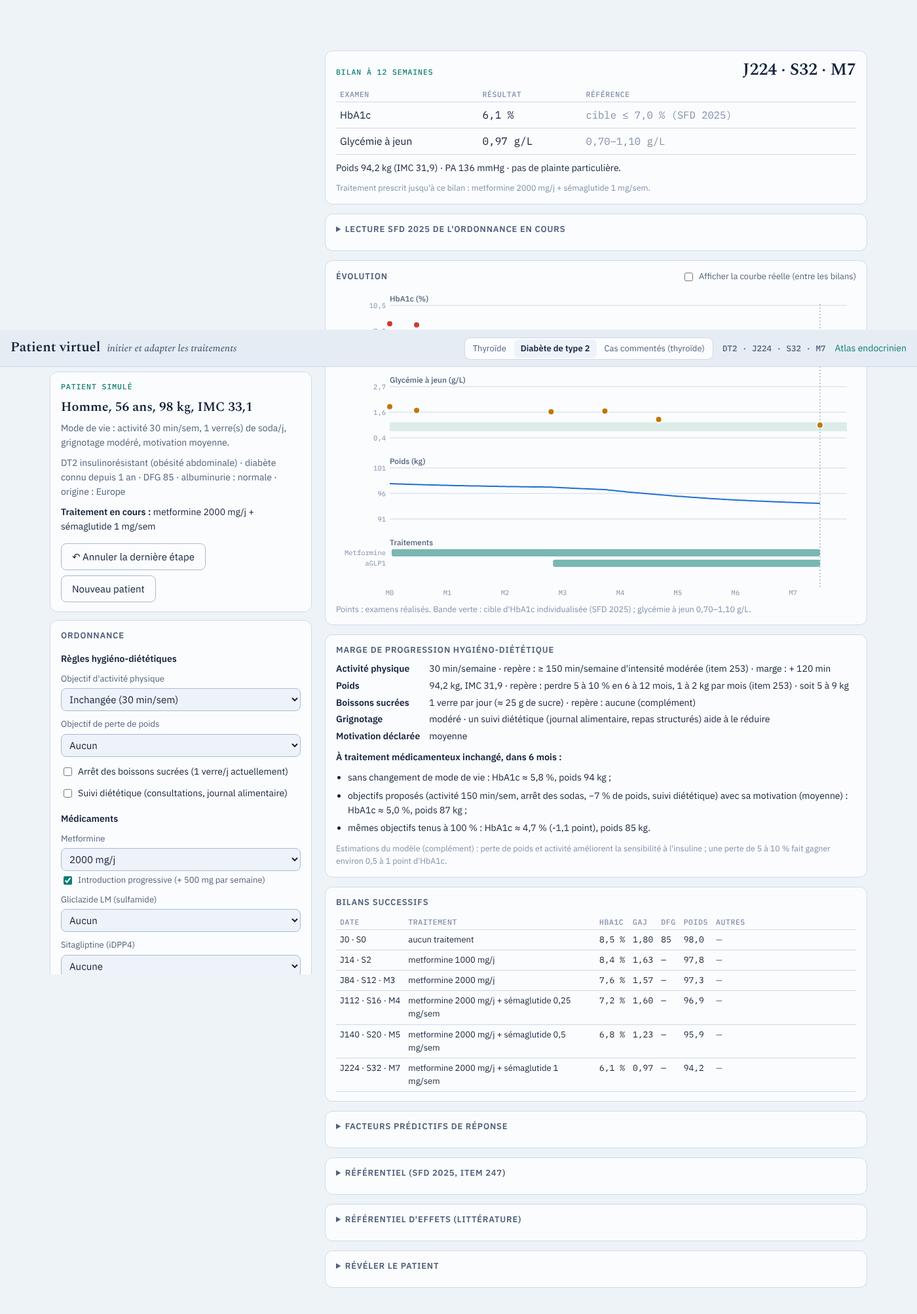
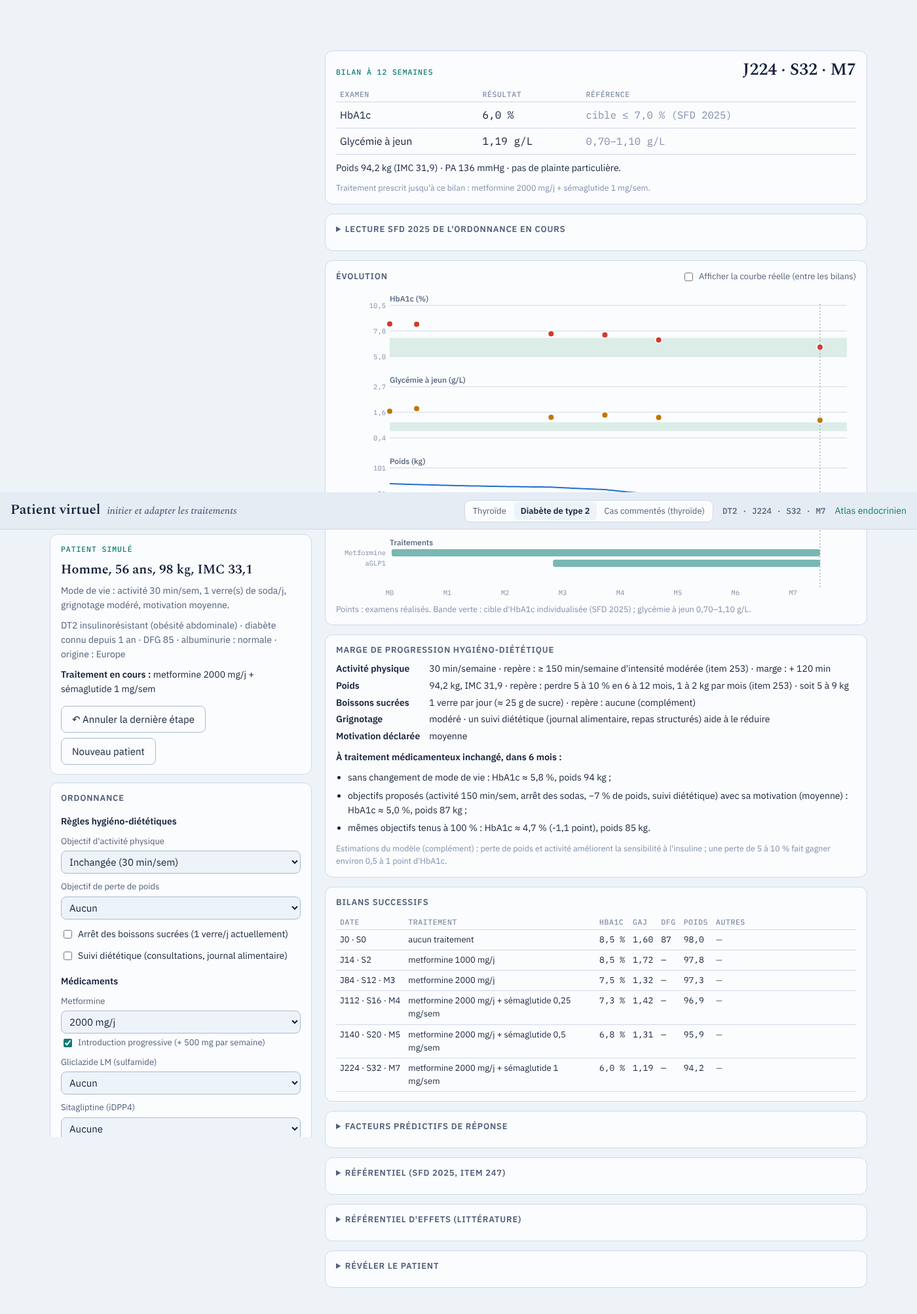
Patient virtuel DT2 : conditions de prescription du capteur et des bandelettes, objectifs réglables
- Capteur de glucose refusé sans insuline, ou sous insuline non intensifiée
  avec HbA1c < 8 % (extension LPPR 2023) ; autosurveillance capillaire
  refusée sans traitement hypoglycémiant, limitée à 200 bandelettes/an
  (≈ 4 mesures/semaine) hors insuline ; titration impossible sans mesures.
- Objectif d'HbA1c fixé avec le patient (signalé s'il s'écarte de la cible
  SFD) ; objectifs glycémiques de la titration modifiables (réveil, avant
  repas, coucher, post-prandial), bolus adaptés sur la glycémie avant le
  repas suivant ou 2 h après le repas.
- Repères HAS 2024 dans le référentiel et la lecture de l'ordonnance.

Claude-Session: https://claude.ai/code/session_01PJCSsbTDwSE6UrQpkjexK4

diff --git a/js/simu/dt2.js b/js/simu/dt2.js
@@ -182,11 +182,12 @@
       cfg: c, pt, history: [], visits: [], undo: [], truth: false, lastHypo: 0, lastSev: 0,
       seed: Math.floor(Math.random() * 1e9), glyDays: [], titrState: { above: {} }, titrLog: [], starts: {},
       titr: { who: onIns ? 'patient' : 'none', prof: c.age >= 75 && c.geria !== 'bonne' ? (c.geria === 'dependant' ? 'dep' : 'fra') : 'std', delai: 3, sfd10: false },
-      cgm: false, asg: onIns ? 2 : r0.su > 0 ? 1 : 0,
+      cgm: false, asg: onIns ? '2' : r0.su > 0 ? 'w4' : '0', goal: null,
       ev: { metGI: null, glpGI: null, myco: null, sglt2Start: null, keto: false, panc: false, retinoDone: false, lactic: false, ketosis: -999, hyperosm: false, a1cHist: [], lastGlpChange: -999, sevSeen: 0, notes: [], ppr: null },
       draft: Object.assign({}, r0, { metProg: true, wait: 12, unit: 'sem', tests: new Set(['a1c', 'fpg']), ppr: false })
     };
-    G.draft.titr = Object.assign({}, G.titr); G.draft.cgm = G.cgm; G.draft.asg = G.asg;
+    G.titr.obj = JSON.parse(JSON.stringify(Y.PROTO[G.titr.prof])); G.titr.bolusCtl = 'next';
+    G.draft.titr = JSON.parse(JSON.stringify(G.titr)); G.draft.cgm = G.cgm; G.draft.asg = G.asg; G.draft.goal = null;
     // Quatorze jours de glycémies avant la première consultation (carnet, capteur).
     for (let k = 14; k > 0; k--) { pt.day = -k; recordDay(); }
     pt.day = 0;
@@ -258,7 +259,7 @@
   function carnetRows() {
     const days = G.glyDays.slice(-14), asg = G.asg;
     return days.map((dp) => {
-      const set = asg ? Y.ASG[asg].set(dp.d) : [];
+      const set = asg !== '0' ? Y.ASG[asg].set(dp.d) : G.cgm ? ['rev', 'avDej', 'avDin', 'coucher'] : [];
       const v = {};
       set.forEach((k) => { v[k] = dp.rdg[k]; });
       const rem = dp.rdg.hypos.map((hy) => 'malaise à ' + Math.floor(hy.t) + ' h ' + String(Math.round((hy.t % 1) * 60)).padStart(2, '0') + ' : ' + fmt(hy.g, 2) + ' g/L' + (hy.sev ? ' (tierce personne)' : ', resucrage'));
@@ -386,7 +387,7 @@
       if (k === 'a1c') labs.a1c = m.a1c;
       else if (k === 'fpg') labs.fpg = G.glyDays.length ? G.glyDays[G.glyDays.length - 1].rdg.rev : m.fpg;
       else if (k === 'creat') labs.dfg = m.dfg;
-      else if (k === 'carnet') { if (G.asg) carnet = carnetRows(); else q.push(['Carnet glycémique', 'pas d\'autosurveillance glycémique prescrite']); }
+      else if (k === 'carnet') { if (G.asg !== '0' || G.cgm) carnet = carnetRows(); else q.push(['Carnet glycémique', 'pas d\'autosurveillance glycémique prescrite']); }
       else if (k === 'agp') {
         if (G.cgm && G.glyDays.length) { const days = G.glyDays.slice(-14); agp = { st: Y.agpStats(Y.cgm(days), days.length), days }; }
         else q.push(['Rapport AGP', 'pas de capteur de glucose prescrit']);
@@ -406,7 +407,7 @@
     const sy = symptoms(m);
     const nHypo = pt.st.hypo - G.lastHypo;
     let toon = G.ev.eventToon || G.ev.toonNext || (nHypo >= 3 ? 'hypo' : null);
-    const T = SFD.target(G.cfg, pt.rx, pt.st.dfg);
+    const T = goalT();
     const target = T.max;
     if (!toon && labs.a1c != null && labs.a1c < target && nHypo === 0 && !G.ev.trophy && G.history.length && G.history[0].labs.a1c >= target) { toon = 'trophy'; G.ev.trophy = true; }
     G.history.push({ day: pt.day, labs, q, w: m.w, bmi: m.bmi, sbp: Math.round(m.sbp), symptoms: sy, rx: rxLabel(pt.rx), note, event: event || null, toon, caption: G.ev.caption || toon, banner: G.ev.banner || null, epitaphe: G.ev.epitaphe || null, carnet, agp, titr, T, a1cTrue: pt.st.A, ukg: pt.rx.basal / pt.st.W });
@@ -445,14 +446,20 @@
   function snapshot() {
     const pt = G.pt;
     return JSON.stringify({ metRamp: pt.metRamp, st: pt.st, day: pt.day, rx: pt.rx, take: pt.take, par: Object.assign({}, pt.par), logLen: pt.log.length, hist: G.history.length, vis: G.visits.length, ev: G.ev, lastHypo: G.lastHypo,
-      gly: G.glyDays, titrState: G.titrState, titrLog: G.titrLog.length, starts: G.starts, titr: G.titr, cgm: G.cgm, asg: G.asg, lastH: G.lastH, lastS: G.lastS });
+      gly: G.glyDays, titrState: G.titrState, titrLog: G.titrLog.length, starts: G.starts, titr: G.titr, cgm: G.cgm, asg: G.asg, goal: G.goal, lastH: G.lastH, lastS: G.lastS });
   }
   function restore(js) {
     const s = JSON.parse(js), pt = G.pt;
     pt.st = s.st; pt.day = s.day; pt.rx = s.rx; pt.take = s.take; pt.metRamp = s.metRamp; Object.assign(pt.par, s.par);
     pt.log.length = s.logLen; G.history.length = s.hist; G.visits.length = s.vis; G.ev = s.ev; G.lastHypo = s.lastHypo;
-    G.glyDays = s.gly; G.titrState = s.titrState; G.titrLog.length = s.titrLog; G.starts = s.starts; G.titr = s.titr; G.cgm = s.cgm; G.asg = s.asg; G.lastH = s.lastH; G.lastS = s.lastS;
-    Object.assign(G.draft, pt.rx, { rapidM: pt.rx.rapidM.slice(), titr: Object.assign({}, G.titr), cgm: G.cgm, asg: G.asg });
+    G.glyDays = s.gly; G.titrState = s.titrState; G.titrLog.length = s.titrLog; G.starts = s.starts; G.titr = s.titr; G.cgm = s.cgm; G.asg = s.asg; G.goal = s.goal; G.lastH = s.lastH; G.lastS = s.lastS;
+    Object.assign(G.draft, pt.rx, { rapidM: pt.rx.rapidM.slice(), titr: JSON.parse(JSON.stringify(G.titr)), cgm: G.cgm, asg: G.asg, goal: G.goal });
+  }
+
+  // Cible d'HbA1c : celle fixée par le prescripteur, sinon la cible SFD 2025 calculée.
+  function goalT() {
+    const T = SFD.target(G.cfg, G.pt.rx, G.pt.st.dfg);
+    return G.goal != null ? Object.assign({}, T, { max: G.goal, chosen: true }) : T;
   }
 
   function lastA1c() { const v = [...G.visits].reverse().find((x) => x.labs.a1c != null); return v ? v.labs.a1c : G.pt.st.A; }
@@ -466,13 +473,16 @@
     if (!d.tests.size) { say('Cochez au moins un examen.'); return; }
     d.rapid = d.rapidM.reduce((a, x) => a + x, 0);
     // Initiation de l'insuline : règle de bonne pratique, refus si non respectée (SFD 2025, avis 18).
-    const block = SFD.insulinInit(pt.rx, d, pt.st.W);
+    const block = SFD.insulinInit(pt.rx, d, pt.st.W).concat(SFD.monitoring(d, d.asg, d.cgm, lastA1c()));
+    const onInsD = d.basal + d.rapid > 0;
+    if (onInsD && d.titr.who !== 'none' && d.asg === '0' && !d.cgm) block.push('Titration de l\'insuline sans autosurveillance ni capteur : impossible ; il faut au moins la glycémie du réveil chaque jour.');
+    if (onInsD && d.titr.who !== 'none' && d.rapid > 0 && d.titr.bolusCtl === 'pp' && d.asg !== '6' && !d.cgm) block.push('Bolus adaptés sur la glycémie post-prandiale : prescrire l\'autosurveillance 6 fois par jour (avant et 2 h après les repas) ou un capteur.');
     if (block.length) { say(block); return; }
     G.undo.push(snapshot());
     const prev = Object.assign({}, pt.rx, { rapidM: pt.rx.rapidM.slice() });
     const metBefore = D.metDose(pt);
     Object.assign(pt.rx, { met: d.met, su: d.su, dpp4: d.dpp4, glp: d.glp, glpDose: d.glp === 'none' ? 0 : d.glpDose, sglt2: d.sglt2, acarb: d.acarb, basal: d.basal, basalType: d.basalType, rapidM: d.rapidM.slice(), rapid: d.rapid, act: d.act, sodaStop: d.sodaStop, wtGoal: d.wtGoal, diet: d.diet });
-    G.titr = Object.assign({}, d.titr); G.cgm = d.cgm; G.asg = d.asg;
+    G.titr = JSON.parse(JSON.stringify(d.titr)); G.cgm = d.cgm; G.asg = d.asg; G.goal = d.goal;
     if (d.ppr && G.ev.ppr == null) G.ev.ppr = pt.day;
     // Début des traitements, pour les règles d'arrêt (SFD 2025, avis 5).
     const on = { su: (r) => r.su > 0, dpp4: (r) => r.dpp4 > 0, sglt2: (r) => r.sglt2 !== 'none', glp: (r) => r.glp !== 'none' };
@@ -567,6 +577,8 @@
         sel('dtAcarb', 'Acarbose', d.acarb, ACARB.map((x) => [x, x ? x + ' mg/j' : 'Aucune']), (v) => { d.acarb = +v; }),
       ]),
       insulinBlock(d, re),
+      h('h4', null, 'Objectif d\'HbA1c'),
+      (() => { const T = SFD.target(G.cfg, G.pt.rx, G.pt.st.dfg); return h('div', { class: 'sv-form' }, [h('div', { class: 'sv-field' }, [h('label', { for: 'dtGoal' }, 'Fixé avec le patient'), h('select', { id: 'dtGoal', onchange: (e) => { d.goal = e.target.value === '' ? null : +e.target.value; } }, [['', 'Cible SFD 2025 calculée (≤ ' + fmt(T.max, 1) + ' %)']].concat([6.5, 7, 7.5, 8, 8.5, 9].map((x) => [x, '≤ ' + fmt(x, 1) + ' %'])).map(([k, v]) => h('option', { value: k, selected: String(d.goal == null ? '' : d.goal) === String(k) }, v)))])]); })(),
       h('h3', null, 'Prochain bilan'),
       h('div', { class: 'sv-inline' }, ['dans',
         h('input', { type: 'number', id: 'dtWait', class: 'sv-num', value: d.wait, min: 1, max: d.unit === 'sem' ? 156 : 1095, step: 1, inputmode: 'numeric', 'aria-label': 'Délai', oninput: (e) => { d.wait = parseFloat(e.target.value) || 0; } }),
@@ -589,7 +601,13 @@
     upd();
     const lo = Math.max(6, Math.round(0.1 * W)), hi = Math.max(10, Math.round(0.2 * W));
     const t = d.titr;
-    const O = Y.PROTO[t.prof];
+    const O = Y.objOf(t);
+    // Objectif glycémique modifiable (min–max, g/L), comme dans le protocole d'adaptation des doses.
+    const rng = (k, label) => {
+      const o = O[k] || (O[k] = [1.2, 1.8]);
+      const inp = (i) => h('input', { type: 'number', id: 'dtObj' + k + i, class: 'sv-num sv-num-s', value: o[i], min: 0.5, max: 3, step: 0.05, inputmode: 'decimal', 'aria-label': label + (i ? ' maximum' : ' minimum'), oninput: (e) => { const v = parseFloat(String(e.target.value).replace(',', '.')); if (v > 0) { o[i] = v; if (k === 'avDej') O.avDin[i] = v; } } });
+      return h('div', { class: 'sv-field' }, [h('label', null, label + ' (g/L)'), h('div', { class: 'sv-inline' }, [inp(0), '–', inp(1)])]);
+    };
     const retNeed = (G.cfg.retino === 'severe' || G.cfg.retino === 'prolif') && G.ev.ppr == null;
     return h('div', { class: 'sv-ins' }, [
       h('h4', null, 'Insulinothérapie'),
@@ -603,15 +621,18 @@
       h('h4', null, 'Adaptation des doses entre les consultations'),
       h('div', { class: 'sv-form' }, [
         sel('dtTitrWho', 'Qui adapte ?', t.who, [['none', 'Personne (doses fixes)'], ['patient', 'Le patient (protocole écrit, éducation)'], ['ide', 'Un(e) IDE à domicile']], (v) => { t.who = v; }),
-        sel('dtTitrProf', 'Objectifs du protocole', t.prof, Object.entries(Y.PROTO).map(([k, v]) => [k, v.label + ' (réveil ' + fmt(v.rev[0], 2) + '–' + fmt(v.rev[1], 2) + ')']), (v) => { t.prof = v; re(); }),
-        sel('dtTitrDel', 'Augmenter après', t.delai, [[2, '2 jours de suite au-dessus de l\'objectif'], [3, '3 jours de suite (SFD : tous les 3 jours)']], (v) => { t.delai = +v; })
+        sel('dtTitrProf', 'Type de patient (remplit les objectifs)', t.prof, Object.entries(Y.PROTO).map(([k, v]) => [k, v.label]), (v) => { t.prof = v; t.obj = JSON.parse(JSON.stringify(Y.PROTO[v])); if (!t.obj.pp) t.obj.pp = [1.4, 2.2]; re(); }),
+        sel('dtTitrDel', 'Augmenter après', t.delai, [[2, '2 jours de suite au-dessus de l\'objectif'], [3, '3 jours de suite (SFD : tous les 3 jours)']], (v) => { t.delai = +v; }),
+        sel('dtBolusCtl', 'Adapter les bolus sur', t.bolusCtl, [['next', 'la glycémie avant le repas suivant'], ['pp', 'la glycémie 2 h après le repas']], (v) => { t.bolusCtl = v; })
       ]),
+      h('div', { class: 'sv-form' }, [rng('rev', 'Objectif au réveil'), rng('avDej', 'Avant les repas'), rng('coucher', 'Au coucher'), rng('pp', '2 h après les repas')]),
       h('label', { class: 'sv-check sv-small' }, [h('input', { type: 'checkbox', id: 'dtTitr10', checked: t.sfd10, onchange: (e) => { t.sfd10 = e.target.checked; } }), ' Au-delà de 40 U, pas de 10 % (SFD 2025) au lieu de 2 U']),
       h('p', { class: 'sv-note' }, 'Protocole du service : pas de 1 U sous 10 U, de 2 U au-delà ; baisse dès l\'injection suivante si hypoglycémie ou glycémie < ' + fmt(O.rev[0], 2) + ' g/L ; basale jugée sur le réveil, bolus sur la glycémie avant le repas suivant.'),
       h('h4', null, 'Surveillance glycémique'),
       h('div', { class: 'sv-form' }, [
-        sel('dtAsg', 'Autosurveillance capillaire', d.asg, [[0, 'Aucune']].concat(Object.entries(Y.ASG).map(([k, v]) => [k, v.label])), (v) => { d.asg = +v; })
+        sel('dtAsg', 'Autosurveillance capillaire', d.asg, [['0', 'Aucune']].concat(Object.entries(Y.ASG).map(([k, v]) => [k, v.label])), (v) => { d.asg = v; })
       ]),
+      h('p', { class: 'sv-note' }, 'Lecteur et bandelettes : seulement sous traitement hypoglycémiant ; hors insuline, 200 bandelettes par an (HAS). Capteur : sous insuline intensifiée (≥ 3 injections/j), ou non intensifiée avec HbA1c ≥ 8 % (LPPR 2023).'),
       h('label', { class: 'sv-check' }, [h('input', { type: 'checkbox', id: 'dtCgm', checked: d.cgm, onchange: (e) => { d.cgm = e.target.checked; } }), ' Capteur de glucose (mesure en continu, rapport AGP)']),
       retNeed ? h('label', { class: 'sv-check' }, [h('input', { type: 'checkbox', id: 'dtPpr', checked: d.ppr, onchange: (e) => { d.ppr = e.target.checked; } }), ' Adresser en urgence en ophtalmologie : photocoagulation panrétinienne']) : null
     ]);
@@ -660,7 +681,7 @@
     const e = [...G.history].reverse().find((x) => !x.prescription);
     const rows = [];
     const T = e.T;
-    if (e.labs.a1c != null) rows.push(['HbA1c', fmt(e.labs.a1c, 1) + ' %', 'cible ≤ ' + fmt(T.max, 1) + ' %' + (T.floor ? ', > ' + fmt(T.floor, 1) + ' %' : '') + ' (SFD 2025)', e.labs.a1c > T.max || (T.floor && e.labs.a1c < T.floor)]);
+    if (e.labs.a1c != null) rows.push(['HbA1c', fmt(e.labs.a1c, 1) + ' %', (T.chosen ? 'objectif fixé ≤ ' : 'cible ≤ ') + fmt(T.max, 1) + ' %' + (T.floor ? ', > ' + fmt(T.floor, 1) + ' %' : '') + (T.chosen ? '' : ' (SFD 2025)'), e.labs.a1c > T.max || (T.floor && e.labs.a1c < T.floor)]);
     if (e.labs.fpg != null) rows.push(['Glycémie à jeun', g2(e.labs.fpg), '0,70–1,10 g/L', e.labs.fpg > 1.26 || e.labs.fpg < 0.7]);
     if (e.labs.dfg != null) rows.push(['DFG (CKD-EPI)', fmt(e.labs.dfg, 0) + ' mL/min/1,73 m²', '> 60', e.labs.dfg < 60]);
     return h('div', { class: 'sv-card sv-latest' }, [
@@ -681,11 +702,11 @@
   // Carnet glycémique et sa lecture guidée (protocole du service, SFD 2025).
   function carnetBlock(e) {
     const prot = G.titr;
-    const O = Y.PROTO[prot.prof];
+    const O = Y.objOf(prot);
     const read = Y.interpretCarnet(e.carnet, prot, { basal: G.pt.rx.basal, basalUkg: e.ukg, a1c: e.labs.a1c });
     return h('div', { class: 'sv-gly' }, [
       h('h4', null, 'Carnet glycémique · ' + e.carnet.length + ' derniers jours'),
-      h('p', { class: 'sv-note' }, 'Autosurveillance : ' + Y.ASG[G.asg].label + '. Couleurs selon les objectifs « ' + O.label.toLowerCase() + ' » du protocole : réveil et avant les repas ' + fmt(O.rev[0], 2) + '–' + fmt(O.rev[1], 2) + ' g/L, coucher ' + fmt(O.coucher[0], 2) + '–' + fmt(O.coucher[1], 2) + ' g/L ; rouge : < 0,70 g/L.'),
+      h('p', { class: 'sv-note' }, (G.asg !== '0' ? 'Autosurveillance : ' + Y.ASG[G.asg].label : 'Valeurs relevées sur le capteur') + '. Couleurs selon les objectifs fixés : réveil ' + fmt(O.rev[0], 2) + '–' + fmt(O.rev[1], 2) + ', avant les repas ' + fmt(O.avDej[0], 2) + '–' + fmt(O.avDej[1], 2) + ', coucher ' + fmt(O.coucher[0], 2) + '–' + fmt(O.coucher[1], 2) + (O.pp ? ', 2 h après les repas ' + fmt(O.pp[0], 2) + '–' + fmt(O.pp[1], 2) : '') + ' g/L ; rouge : < 0,70 g/L.'),
       Y.carnetTable(e.carnet, prot, h),
       h('details', { class: 'sv-det sv-how' }, [h('summary', null, 'Comment lire un carnet'), h('ol', { class: 'sv-keys' }, [
         h('li', null, 'Les hypoglycémies d\'abord : à quelle heure, après quelle dose ? Hypoglycémie nocturne ou réveil sous l\'objectif : baisser la basale ; avant le repas suivant ou 2 à 4 h après un repas : baisser le bolus de ce repas (dès l\'injection suivante).'),
@@ -721,14 +742,14 @@
   function sfdCard() {
     const pt = G.pt, e = [...G.history].reverse().find((x) => !x.prescription);
     const nSev = pt.st.hypoSev;
-    const A = SFD.advise({ c: G.cfg, rx: pt.rx, dfg: pt.st.dfg, a1c: e.labs.a1c != null ? e.labs.a1c : lastA1c(), W: pt.st.W, hypos: pt.st.hypo, sevHypo: nSev > 0, starts: G.starts, day: pt.day, ppr: G.ev.ppr != null, cgm: G.cgm, titr: G.titr, fpg: G.glyDays.length ? Y.ASG[1].set(0) && G.glyDays.slice(-7).reduce((x, dp) => x + dp.rdg.rev, 0) / Math.min(7, G.glyDays.length) : null });
+    const A = SFD.advise({ c: G.cfg, rx: pt.rx, dfg: pt.st.dfg, a1c: e.labs.a1c != null ? e.labs.a1c : lastA1c(), W: pt.st.W, hypos: pt.st.hypo, sevHypo: nSev > 0, starts: G.starts, day: pt.day, ppr: G.ev.ppr != null, cgm: G.cgm, titr: G.titr, goal: G.goal, asg: G.asg, fpg: G.glyDays.length ? G.glyDays.slice(-7).reduce((x, dp) => x + dp.rdg.rev, 0) / Math.min(7, G.glyDays.length) : null });
     const n = A.items.filter((x) => x.lvl === 'stop' || x.lvl === 'warn').length;
     const icon = { stop: '⛔', warn: '⚠', tip: '→', ok: '✓' };
     return h('details', { class: 'sv-card sv-det sv-sfd' }, [
       h('summary', null, 'Lecture SFD 2025 de l\'ordonnance en cours' + (n ? ' · ' + n + ' point' + (n > 1 ? 's' : '') + ' à revoir' : '')),
       h('p', { class: 'sv-q' }, 'Cible d\'HbA1c : ≤ ' + fmt(A.target.max, 1) + ' %' + (A.target.floor ? ', en restant au-dessus de ' + fmt(A.target.floor, 1) + ' %' : '') + (A.target.low ? ' (voire ≤ 6,5 %)' : '') + '.'),
       h('p', { class: 'sv-note' }, A.target.why.join(' ; ') + ' (' + A.target.src + ').'),
-      h('ul', { class: 'sv-sfd-l' }, A.items.map((x) => h('li', { class: 'sv-sfd-' + x.lvl }, [h('span', { class: 'sv-sfd-i', 'aria-hidden': 'true' }, icon[x.lvl]), ' ' + x.t + ' ', x.src ? h('span', { class: 'sv-src' }, '(SFD 2025, ' + x.src + ')') : null]))),
+      h('ul', { class: 'sv-sfd-l' }, A.items.map((x) => h('li', { class: 'sv-sfd-' + x.lvl }, [h('span', { class: 'sv-sfd-i', 'aria-hidden': 'true' }, icon[x.lvl]), ' ' + x.t + ' ', x.src ? h('span', { class: 'sv-src' }, '(' + (x.src.startsWith('HAS') ? '' : 'SFD 2025, ') + x.src + ')') : null]))),
       h('p', { class: 'sv-note' }, 'Darmon P et al. Prise de position de la SFD sur les stratégies d\'utilisation des traitements de l\'hyperglycémie dans le DT2 – 2025. Med Mal Metab 2025;19:630-662. Ouvrez cette lecture après avoir décidé : elle ne bloque rien, sauf l\'initiation de l\'insuline hors recommandations.')
     ]);
   }
@@ -751,7 +772,7 @@
     const x = (d) => L + ((W - L - R) * d) / last;
     const drugs = [['met', 'Metformine', (p) => p.met > 0], ['su', 'Sulfamide', (p) => p.su > 0], ['glp', 'aGLP1', (p) => p.glp > 0], ['ins', 'Insuline', (p) => p.ins > 0]].filter(([, , f]) => log.some(f));
     const lanes = [
-      { k: 'a1c', t: 'HbA1c (%)', min: 5, max: Math.max(10, ...log.map((p) => p.a1c)) + 0.5, band: [SFD.target(G.cfg, pt.rx, pt.st.dfg).floor || 4, SFD.target(G.cfg, pt.rx, pt.st.dfg).max], color: 'var(--t3)', truth: (p) => p.a1c },
+      { k: 'a1c', t: 'HbA1c (%)', min: 5, max: Math.max(10, ...log.map((p) => p.a1c)) + 0.5, band: [goalT().floor || 4, goalT().max], color: 'var(--t3)', truth: (p) => p.a1c },
       { k: 'fpg', t: 'Glycémie à jeun (g/L)', min: 0.4, max: Math.max(2.5, ...log.map((p) => p.mg)) + 0.2, band: [0.7, 1.1], color: 'var(--t4)', truth: (p) => p.fpg },
       { k: 'w', t: 'Poids (kg)', min: Math.min(...log.map((p) => p.w)) - 3, max: Math.max(...log.map((p) => p.w)) + 3, color: 'var(--tsh)', truth: (p) => p.w, all: true }
     ];

diff --git a/js/simu/sfd.js b/js/simu/sfd.js
@@ -59,6 +59,25 @@
     return out;
   }
 
+  // Dispositifs de surveillance (remboursement) : capteur et bandelettes. Renvoie les messages bloquants.
+  // Capteur (FreeStyle Libre 2, extension LPPR 2023) : insulinothérapie intensifiée (≥ 3 injections/j ou
+  // pompe), ou insulinothérapie non intensifiée avec HbA1c ≥ 8 %. Autosurveillance capillaire : réservée
+  // aux patients sous traitement hypoglycémiant (sulfamide, glinide, insuline) ; hors insuline, 200
+  // bandelettes et lancettes par an (HAS).
+  function monitoring(rx, asg, cgm, a1c) {
+    const out = [];
+    const nInj = (rx.basal > 0 ? 1 : 0) + (rx.rapidM || []).filter((x) => x > 0).length;
+    if (cgm) {
+      if (!INS(rx)) out.push('Capteur de glucose : pris en charge seulement sous insuline (HAS, LPPR). Sans insuline, il n\'est pas remboursé.');
+      else if (nInj < 3 && !(a1c >= 8)) out.push('Capteur de glucose sous insulinothérapie non intensifiée (' + nInj + ' injection' + (nInj > 1 ? 's' : '') + '/j) : remboursé seulement si l\'HbA1c est ≥ 8 % (dernière HbA1c ' + (a1c != null ? fmt(a1c, 1) + ' %' : 'inconnue') + ') ; sous insulinothérapie intensifiée (≥ 3 injections/j), sans condition d\'HbA1c.');
+    }
+    if (asg && asg !== '0') {
+      if (!INS(rx) && !(rx.su > 0)) out.push('Autosurveillance glycémique capillaire : sans traitement hypoglycémiant (sulfamide, glinide, insuline), elle n\'est pas recommandée en routine et le lecteur et les bandelettes ne sont pas pris en charge (HAS).');
+      else if (!INS(rx) && asg !== 'w4') out.push('Sans insuline (sulfamide seul), l\'autosurveillance est limitée à 200 bandelettes et lancettes par an, soit environ 4 mesures par semaine (HAS).');
+    }
+    return out;
+  }
+
   // Lecture de l'ordonnance : liste de { lvl: 'stop' | 'warn' | 'tip' | 'ok', t, src }.
   // st : { c (patient), rx, prevRx, dfg, a1c, W, hypos, starts: {drug: {day, a1c, w}}, day, ppr, glyNote }
   function advise(st) {
@@ -76,6 +95,8 @@
     if (cv && GLP(rx) && !CV_GLP(rx)) add('tip', 'Bénéfice CV démontré aux doses des grands essais : ' + ({ lira: 'liraglutide 1,8 mg/j', dula: 'dulaglutide ≥ 1,5 mg/sem', sema: 'sémaglutide 1 mg/sem', tirz: 'tirzépatide 15 mg/sem' }[rx.glp]) + '.', 'avis 11');
     if ((bmi >= 30 || c.masld) && !GLP(rx) && !(g === 'dependant')) add('tip', (bmi >= 30 ? 'Obésité (IMC ' + fmt(bmi, 1) + ')' : 'MASLD/MASH') + ' : envisager un aGLP1 ou le tirzépatide, quel que soit l\'HbA1c ; à défaut, un iSGLT2.', bmi >= 30 ? 'avis 14' : 'avis 15');
 
+    // Mode de vie en première intention chez tous (HAS 2024, SFD 2025 avis 4 et 8).
+    if (!(rx.act > 0) && !rx.diet && !(rx.wtGoal > 0) && !rx.sodaStop) add('tip', 'Mesures hygiéno-diététiques (activité physique, prise en charge nutritionnelle) en première intention chez tous les patients, avant et avec tout médicament.', 'HAS 2024 ; SFD 2025, avis 4 et 8');
     // Metformine (avis 8, 9, 12 bis, 20).
     if (!(rx.met > 0) && dfg >= 30 && !c.metIntol) add('tip', 'Metformine en première intention (sauf contre-indication ou intolérance digestive avérée), à doses progressives jusqu\'à la dose maximale tolérée, en 2 ou 3 prises au cours ou à la fin des repas.', 'avis 8 et 9');
     if (rx.met > 0 && dfg < 30) add('stop', 'Metformine contre-indiquée sous 30 mL/min/1,73 m² : à arrêter.', 'avis 12 bis');
@@ -159,6 +180,13 @@
     // Rétinopathie (avis 8 bis).
     if ((c.retino === 'severe' || c.retino === 'prolif') && !st.ppr) add('warn', 'Rétinopathie ' + (c.retino === 'prolif' ? 'proliférante' : 'sévère') + ' : avis ophtalmologique rapide (photocoagulation panrétinienne) ; objectifs gradués de baisse de la glycémie en attendant.', 'avis 8 bis');
 
+    // Objectif fixé par le prescripteur (HAS 2024, SFD 2025 : objectif individualisé, décidé avec le patient).
+    if (st.goal != null) {
+      if (st.goal < T.max - 0.25 && (rx.su > 0 || INS(rx))) add('warn', 'Objectif fixé à ' + fmt(st.goal, 1) + ' %, plus strict que la cible SFD (≤ ' + fmt(T.max, 1) + ' %) sous traitement hypoglycémiant : risque d\'hypoglycémie' + (T.floor ? ' ; ne pas descendre sous ' + fmt(T.floor, 1) + ' %' : '') + '.', 'avis 3');
+      else if (st.goal > T.max + 0.25) add('warn', 'Objectif fixé à ' + fmt(st.goal, 1) + ' %, moins exigeant que la cible SFD (≤ ' + fmt(T.max, 1) + ' %) : inertie thérapeutique ?', 'avis 3');
+      if (T.floor && st.goal < T.floor) add('warn', 'Objectif sous le plancher de ' + fmt(T.floor, 1) + ' % recommandé pour ce patient sous SU, glinide ou insuline.', 'avis 3 et 21');
+    }
+    if (!(rx.su > 0) && !INS(rx) && st.asg && st.asg !== '0') add('tip', 'Autosurveillance sans traitement hypoglycémiant : non recommandée en routine (HAS) ; la SFD l\'admet temporairement à visée éducative au diagnostic d\'un déséquilibre important.', 'avis 8 bis et 23');
     if (!out.length) add('ok', 'Pas d\'écart relevé avec la prise de position.', '');
     return { target: T, items: out };
   }
@@ -174,8 +202,10 @@
     ['Fonction rénale', 'Metformine ≤ 2 g (DFG 45–59), ≤ 1 g (30–44), arrêt < 30. Sitagliptine 50 mg < 45, 25 mg < 30. SU contre-indiqués < 30. iSGLT2 : effet glycémique réduit < 45 ; initiation dès 25 (dapagliflozine) ou 20 (empagliflozine 10 mg).', 'avis 12 bis'],
     ['Insuline basale', 'Une injection d\'un analogue lent, 6 à 10 U/j ou 0,1 à 0,2 U/kg/j ; glycémie au réveil 0,80–1,30 g/L ; adaptation tous les 3 jours de ± 2 U (± 10 % au-delà de 40 U). Garder la metformine, arrêter les SU. Capteur recommandé. Glargine U300 ou dégludec si risque d\'hypoglycémie nocturne.', 'avis 18, 18 bis, 18 ter'],
     ['Échec de la basale', 'HbA1c au-dessus de la cible malgré une glycémie à jeun dans la cible, ou basale > 0,5 U/kg : avis diabétologique ; ajouter un aGLP1 ou le tirzépatide (préféré), un oral (iSGLT2, iDPP4, SU) ou des bolus (basal-plus, basal-bolus) ; prémélanges moins flexibles.', 'avis 19'],
+    ['HAS 2024 (stratégie thérapeutique du patient vivant avec un DT2)', 'Mode de vie (activité physique, nutrition) en première intention chez tous ; metformine en première intention médicamenteuse ; iSGLT2 ou aGLP1 selon le profil, indépendamment de la metformine et de l\'HbA1c (maladie cardiovasculaire avérée : iSGLT2 ou aGLP1 ; insuffisance cardiaque ou maladie rénale : iSGLT2 ; obésité IMC > 30 : aGLP1) ; cible d\'HbA1c de 7 % pour la majorité, individualisée et décidée avec le patient.', 'HAS 2024'],
+    ['Surveillance : bandelettes et capteur', 'Autosurveillance capillaire réservée aux traitements hypoglycémiants (sulfamide, glinide, insuline) ; hors insuline, 200 bandelettes et lancettes par an. Capteur de glucose pris en charge sous insulinothérapie intensifiée (≥ 3 injections/j), ou non intensifiée avec HbA1c ≥ 8 % (LPPR, 2023) ; recommandé sous insuline par la SFD.', 'HAS ; LPPR ; avis 23'],
     ['Personne âgée', 'Fragile : metformine + iDPP4, puis analogue lent ; éviter SU et glinides. Dépendante : pas de SU, de glinide ni d\'aGLP1 ; iDPP4, insuline basale ; HbA1c > 7,5 % sous insuline.', 'avis 21 bis']
   ];
 
-  S.sfd = { target, cgmFragile, insulinInit, advise, REF, CV_GLP };
+  S.sfd = { target, cgmFragile, insulinInit, monitoring, advise, REF, CV_GLP };
 })();

diff --git a/js/simu/glyco.js b/js/simu/glyco.js
@@ -30,7 +30,9 @@
   const HYPO = 0.7;
   const MOMENTS = [['rev', 'Réveil', 7.25], ['ppPdj', '2 h après le petit-déjeuner', 9.5], ['avDej', 'Avant le déjeuner', 12.25], ['ppDej', '2 h après le déjeuner', 14.5], ['avDin', 'Avant le dîner', 19.25], ['ppDin', '2 h après le dîner', 21.5], ['coucher', 'Coucher', 22.5]];
   // Mesures faites selon la fréquence d'autosurveillance prescrite (le réveil tous les jours).
+  // Hors insuline, autosurveillance limitée à 200 bandelettes par an (≈ 4 mesures par semaine).
   const ASG = {
+    w4: { label: '4 mesures par semaine (200 bandelettes par an)', perYear: 208, set: (d) => ([0, 2, 4, 6].includes(((d % 7) + 7) % 7) ? [['rev', 'ppDej', 'avDin', 'ppDin'][((Math.floor(d / 2) % 4) + 4) % 4]] : []) },
     1: { label: '1 fois par jour (réveil)', set: () => ['rev'] },
     2: { label: '2 fois par jour (réveil + un autre moment, en alternance)', set: (d) => ['rev', ['avDej', 'avDin', 'coucher'][d % 3]] },
     4: { label: '4 fois par jour (réveil, avant midi, avant soir, coucher)', set: () => ['rev', 'avDej', 'avDin', 'coucher'] },
@@ -38,7 +40,9 @@
   };
   const MEALS = ['Petit-déjeuner', 'Déjeuner', 'Dîner'];
   // Repas suivant dont la glycémie juge chaque bolus (protocole : « sur la glycémie avant le repas suivant »).
-  const BOLUS_CTRL = ['avDej', 'avDin', 'coucher'];
+  const BOLUS_CTRL = ['avDej', 'avDin', 'coucher'], BOLUS_PP = ['ppPdj', 'ppDej', 'ppDin'];
+  // Objectifs en vigueur : ceux fixés par le prescripteur, sinon ceux du profil du protocole.
+  const objOf = (prot) => prot.obj || PROTO[prot.prof] || PROTO.std;
 
   /* ---------- Hasard reproductible ---------- */
   function rng(seed) {
@@ -148,7 +152,7 @@
   /* ---------- Titration ---------- */
   // state : { above: { basal, m0, m1, m2 } } ; prot : { who, prof, delai, sfd10 } ; rdg : glycémies du jour.
   function titrate(rx, rdg, prot, state, apply) {
-    const O = PROTO[prot.prof] || PROTO.std;
+    const O = objOf(prot);
     const log = [];
     const step = (dose) => (prot.sfd10 && dose > 40 ? Math.max(2, Math.round(dose * 0.1)) : dose < 10 ? 1 : 2);
     const nightHypo = rdg.hypos.some((h) => h.t < 7.5 || h.t > 22);
@@ -164,7 +168,8 @@
     };
     ctl('basal', rx.basal, rdg.rev, O.rev, nightHypo, (v) => { rx.basal = v; });
     (rx.rapidM || []).forEach((dose, m) => {
-      const k = BOLUS_CTRL[m], obj = O[k] || O.avDej;
+      const pp = prot.bolusCtl === 'pp';
+      const k = pp ? BOLUS_PP[m] : BOLUS_CTRL[m], obj = pp ? (O.pp || [1.2, 1.8]) : (O[k] || O.avDej);
       const hypo = rdg.hypos.some((h) => h.t > ([7.5, 12.5, 19.5][m] + 1) && h.t < ([12.5, 19.5, 26][m]));
       ctl('m' + m, dose, rdg[k], obj, hypo, (v) => { rx.rapidM[m] = v; });
     });
@@ -243,15 +248,15 @@
   }
 
   function interpretCarnet(rows, prot, ctx) {
-    const O = PROTO[prot.prof] || PROTO.std;
+    const O = objOf(prot);
     const f = (x) => x.toFixed(2).replace('.', ',');
     const out = [];
     const col = (k) => rows.map((r) => r.v[k]).filter((x) => x != null);
     const nHypo = rows.reduce((a, r) => a + r.hypos.length, 0);
     const nightH = rows.reduce((a, r) => a + r.hypos.filter((h) => h.t < 7.5 || h.t > 22).length, 0);
     if (nHypo) out.push('Hypoglycémies : ' + nHypo + ' sur ' + rows.length + ' jours' + (nightH ? ', dont ' + nightH + ' la nuit (basale trop forte)' : '') + ' ; à corriger en premier (baisser la dose responsable dès l\'injection suivante).');
-    [['rev', 'Réveil'], ['avDej', 'Avant le déjeuner'], ['avDin', 'Avant le dîner'], ['coucher', 'Coucher']].forEach(([k, n]) => {
-      const v = col(k), obj = O[k];
+    [['rev', 'Réveil'], ['ppPdj', '2 h après le petit-déjeuner'], ['avDej', 'Avant le déjeuner'], ['ppDej', '2 h après le déjeuner'], ['avDin', 'Avant le dîner'], ['ppDin', '2 h après le dîner'], ['coucher', 'Coucher']].forEach(([k, n]) => {
+      const v = col(k), obj = k.startsWith('pp') ? O.pp : O[k];
       if (!v.length || !obj) return;
       const hi = v.filter((x) => x > obj[1]).length, lo = v.filter((x) => x < obj[0]).length;
       out.push(n + ' : médiane ' + f(quant(v, 0.5)) + ' g/L (objectif ' + f(obj[0]) + '–' + f(obj[1]) + ') ; ' + hi + '/' + v.length + ' au-dessus, ' + lo + '/' + v.length + ' en dessous.');
@@ -279,7 +284,7 @@
 
   // Carnet : une ligne par jour, cases colorées selon l'objectif du protocole.
   function carnetTable(rows, prot, h) {
-    const O = PROTO[prot.prof] || PROTO.std;
+    const O = objOf(prot);
     const cls = (k, v) => { if (v == null) return 'gc-na'; if (v < HYPO) return 'gc-hypo'; const o = O[k] || (k.startsWith('pp') ? O.pp : null); if (!o) return ''; return v < o[0] ? 'gc-lo' : v > o[1] ? 'gc-hi' : 'gc-ok'; };
     const anyRapid = rows.some((r) => r.u.some((x) => x > 0));
     const anyPP = rows.some((r) => r.v.ppDej != null);
@@ -344,5 +349,5 @@
     ]);
   }
 
-  S.glyco = { PROTO, ASG, MOMENTS, MEALS, HYPO, makeDay, glucose, readings, titrate, cgm, agpStats, cgmTargets, interpretAGP, interpretCarnet, carnetTable, agpReport, rng };
+  S.glyco = { PROTO, objOf, ASG, MOMENTS, MEALS, HYPO, makeDay, glucose, readings, titrate, cgm, agpStats, cgmTargets, interpretAGP, interpretCarnet, carnetTable, agpReport, rng };
 })();

diff --git a/docs/simulateur.md b/docs/simulateur.md
@@ -97,6 +97,8 @@ Même principe que la thyroïde : on crée le patient, on prescrit librement, on
 
 **Insulinothérapie.** Basale (glargine U100 ou U300, dégludec, NPH ; analogues d'action très prolongée : hypoglycémies × 0,7, NPH × 1,4) et analogue rapide par repas. **L'initiation hors recommandations est refusée** : basale de départ au plus 10 U ou 0,2 U/kg/j (6 à 10 U/j ou 0,1 à 0,2 U/kg/j, SFD 2025, avis 18) ; bolus de départ au plus 4 U, 0,1 U/kg ou 10 % de la basale (complément, ADA). Entre deux consultations, la titration suit le protocole d'adaptation des doses d'insuline du service (version 3.0), appliquée par le patient (85 % des décisions suivies en mode patient réel), par une IDE, ou pas du tout : objectifs par profil (standard : réveil et avant les repas 0,80–1,20 g/L, coucher 1,00–1,40 ; fragile 1,00–1,40 ; dépendant 1,20–2,00), pas de 1 U sous 10 U et de 2 U au-delà (option SFD : 10 % au-delà de 40 U), hausse après 2 ou 3 jours de suite au-dessus de l'objectif, baisse dès l'injection suivante en cas d'hypoglycémie ou de glycémie sous l'objectif ; la basale se juge sur le réveil, chaque bolus sur la glycémie avant le repas suivant. Les doses atteintes deviennent le point de départ de l'ordonnance suivante.
 
+**Objectifs et surveillance.** L'objectif d'HbA1c peut être fixé avec le patient (6,5 à 9 %) ; sinon la cible SFD calculée s'applique ; un objectif plus strict que la cible sous traitement hypoglycémiant, sous le plancher, ou plus lâche, est signalé. Les objectifs glycémiques de la titration (réveil, avant les repas, coucher, 2 h après les repas) sont pré-remplis selon le type de patient du protocole et modifiables ; les bolus s'adaptent sur la glycémie avant le repas suivant ou sur la glycémie post-prandiale (autosurveillance 6 fois par jour ou capteur exigés). Prescriptions refusées : autosurveillance capillaire sans traitement hypoglycémiant (sulfamide, glinide, insuline) ; plus de 200 bandelettes par an (≈ 4 mesures par semaine) hors insuline (règle HAS donnée par l'auteur ; la source officielle à jour n'a pas été retrouvée en ligne) ; capteur sans insuline, ou sous insulinothérapie non intensifiée (moins de 3 injections/j) avec une HbA1c < 8 % (extension LPPR 2023 du FreeStyle Libre 2) ; titration de l'insuline sans autosurveillance ni capteur. Repères HAS 2024 (stratégie thérapeutique du DT2) ajoutés au référentiel.
+
 **Carnet et rapport AGP** (`js/simu/glyco.js`). Chaque jour, un profil glycémique de 24 h est reconstruit à partir du modèle : niveau de fond (glycémie à jeun, phénomène de l'aube, élévation diurne), excursions des trois repas (réduites par les incrétines et l'acarbose), effet local de chaque bolus (d'abord l'excursion de son repas, puis l'intervalle jusqu'au repas suivant, le surplus creusant une hypoglycémie), bruit lent et variabilité d'un jour à l'autre (plus forte si repas irréguliers ou observance moyenne). La moyenne sur 24 h égale la glycémie moyenne du modèle, si bien que l'HbA1c, le GMI et le carnet restent cohérents. Les hypoglycémies tirées par le modèle se placent au creux du profil ; un creux spontané sous 0,60 g/L en est une aussi. Examens : « Carnet glycémique » (14 derniers jours, mesures selon la fréquence d'autosurveillance prescrite : 1, 2, 4 ou 6 par jour, cases colorées selon les objectifs du protocole, malaises notés) et « Rapport AGP » si un capteur est prescrit (point toutes les 15 min, trous de capteur ; statistiques, barre des plages, courbe des percentiles 5–25–50–75–95, profils quotidiens ; cibles du tableau II de la SFD, cas général ou sujet âgé/à haut risque). Chacun s'accompagne d'une méthode de lecture (Czupryniak L et al. Diabetes Ther 2022;13:811 pour l'AGP) et d'une proposition d'interprétation repliée, à ouvrir après avoir lu soi-même.
 
 **Rétinopathie.** Rétinopathie sévère ou proliférante : hémorragie intravitréenne si l'HbA1c baisse de 2 points en 3 mois, de 1,5 point sous aGLP1, tirzépatide ou insuline (aggravation précoce, SUSTAIN-6 ; complication non spécifique de la classe, SFD 2025, avis 6 bis), de 3,5 points après photocoagulation panrétinienne (case « adresser en ophtalmologie ») ; en mode patient réel, une rétinopathie proliférante non traitée peut aussi saigner d'elle-même.
